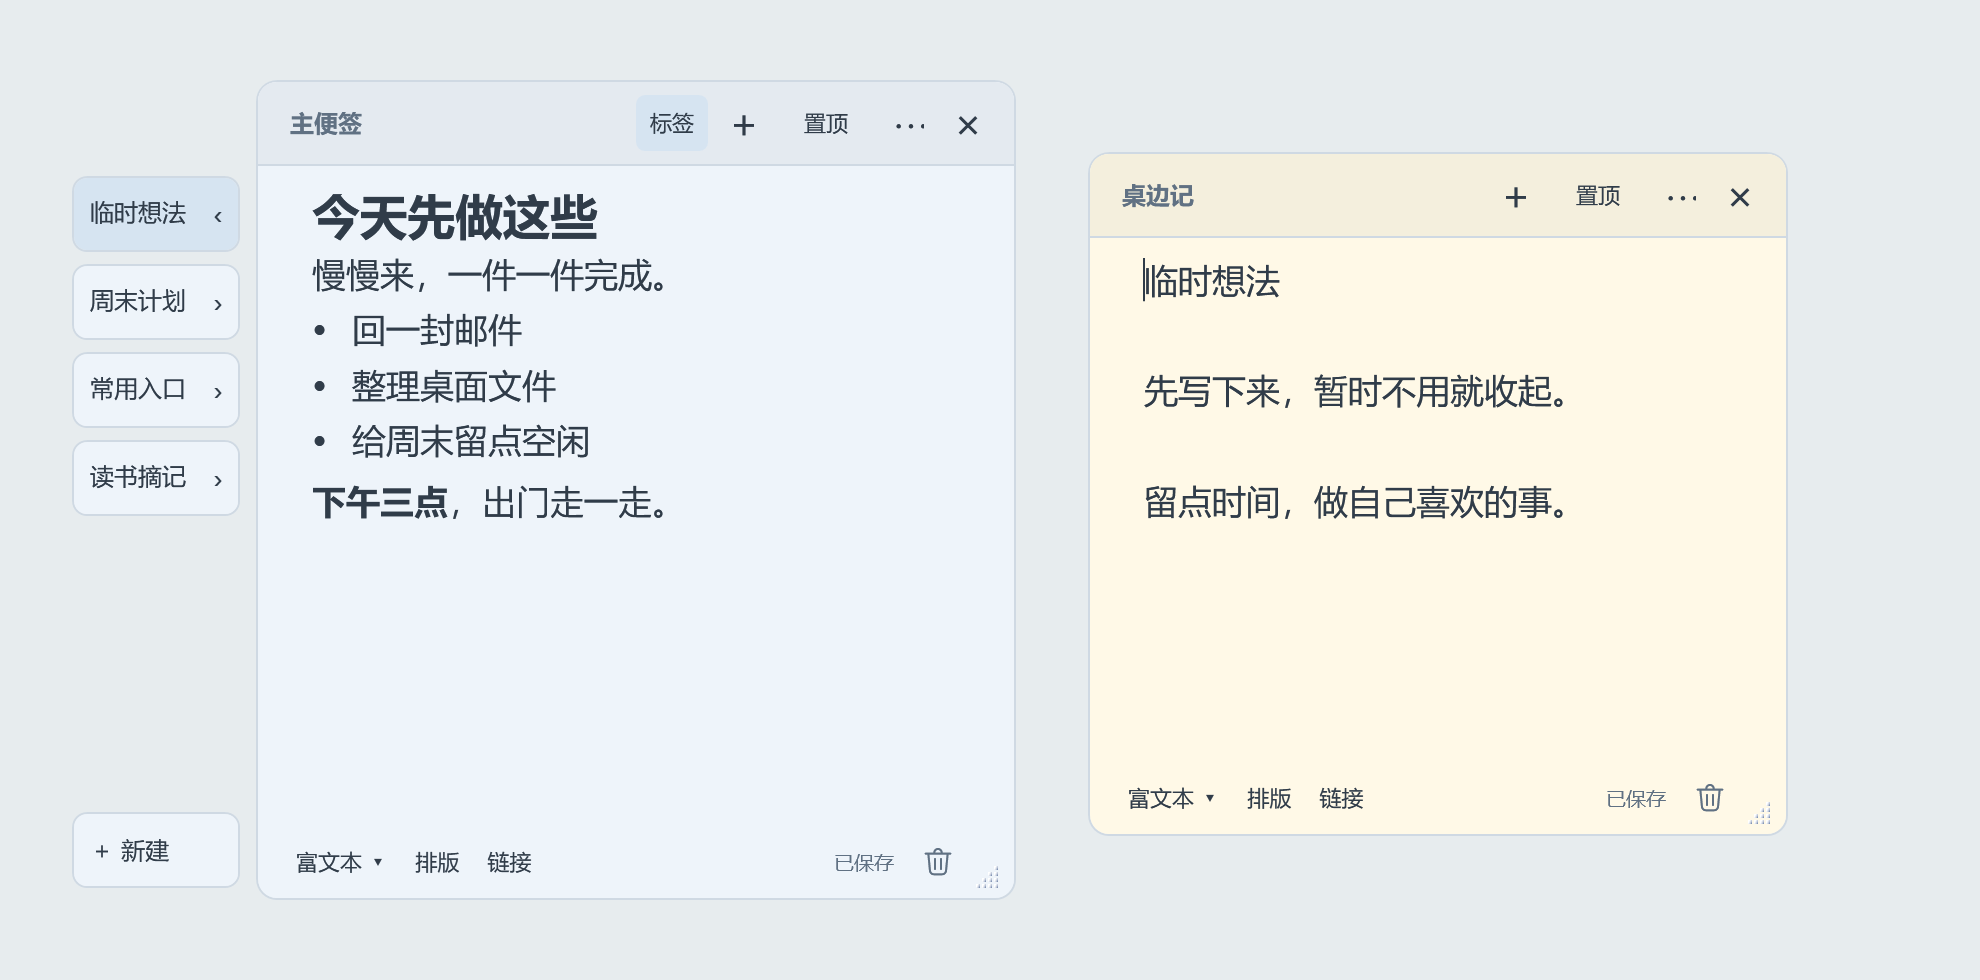
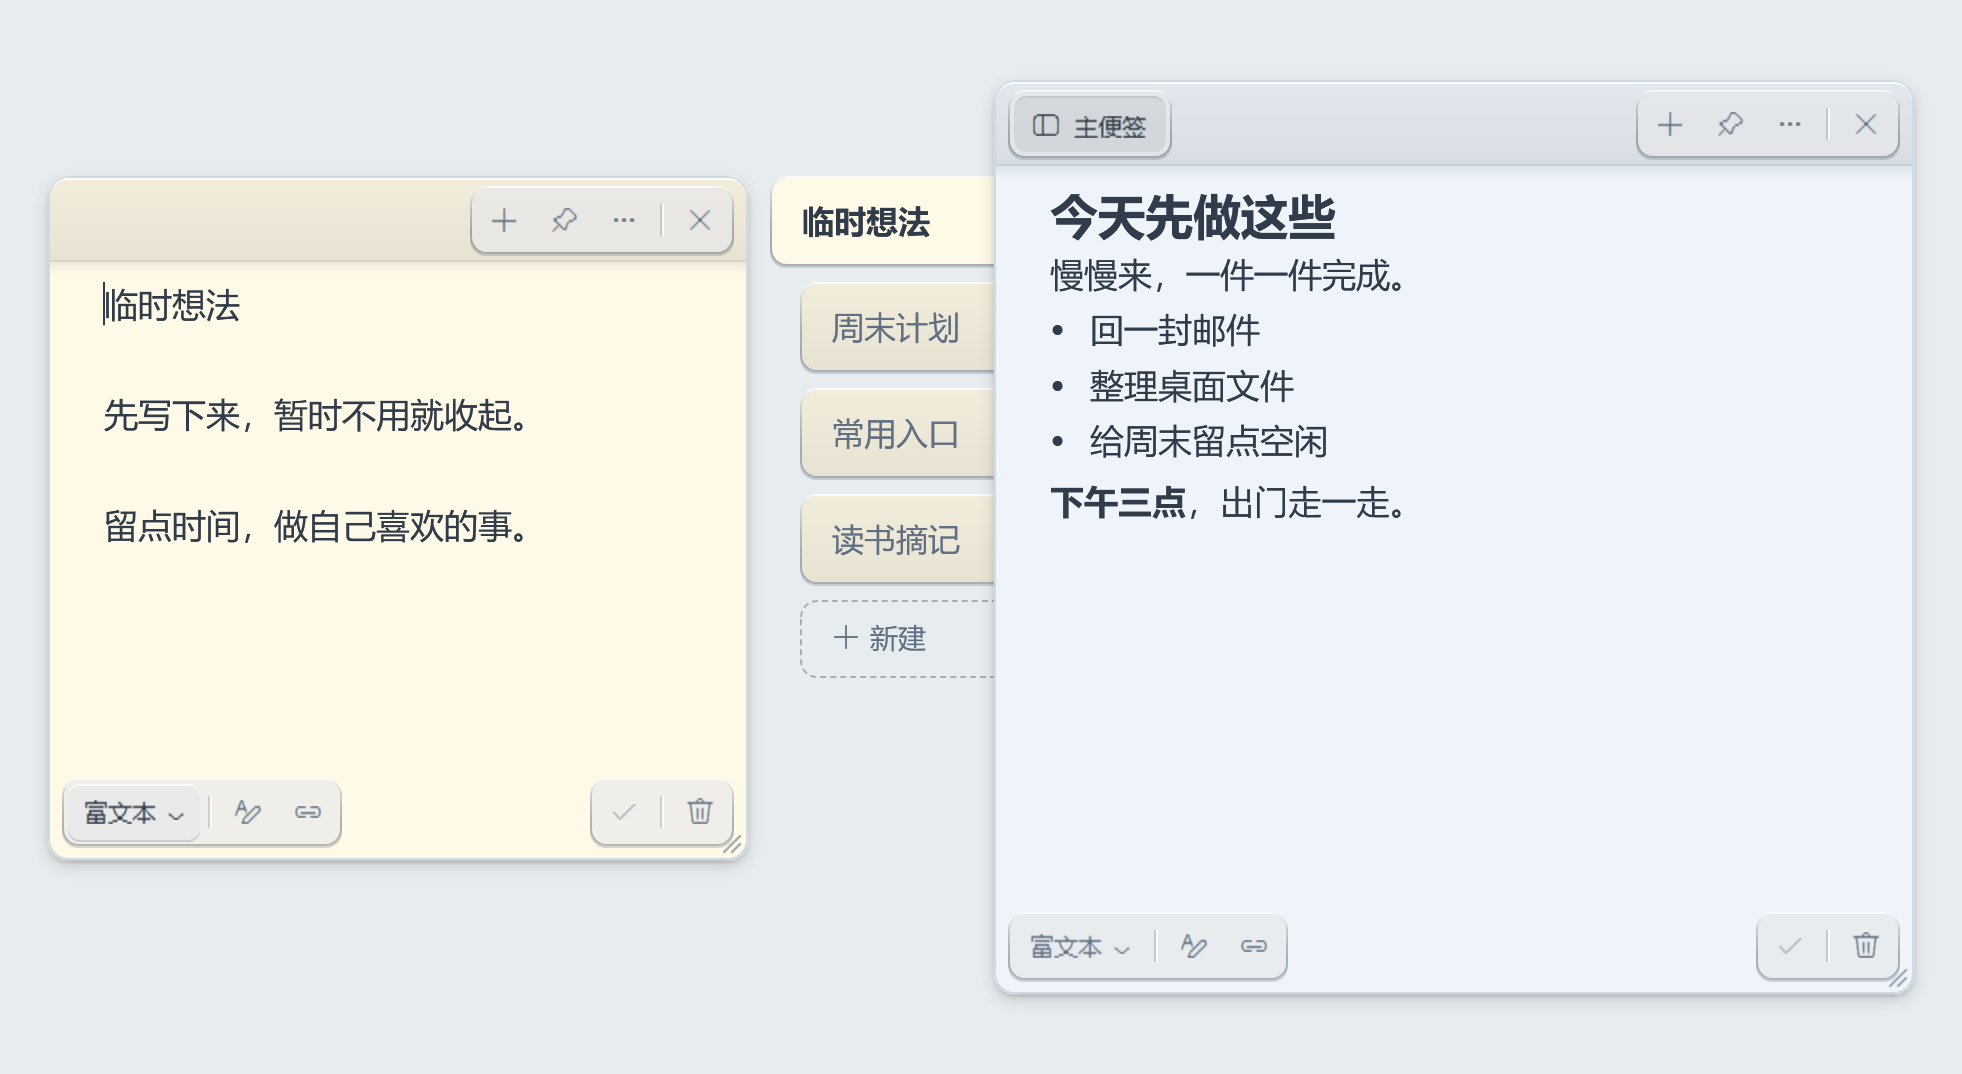
打磨 4：动画收尾——链接卡片淡入，README 配图重新生成，正文 ClearType 查清原因
- 链接卡片出现时淡入，和颜色面板一致；菜单原本就跟随系统菜单动画设置，便签淡入、子便签滑出、弹窗出现在前几块已完成
- 正文 ClearType：透明窗口里文字上层有裁剪就只能灰度，滚动区一定裁剪；去掉裁剪后代码块底色、表格线、引用竖线会画到卡片外的阴影边距里，所以不采用，正文保持灰度，原因和后续做法写进开发说明和打磨计划
- README 的三张配图按现在的界面重新生成
- 打磨计划补上第 4 块完成情况

diff --git a/src/Zhuobianji/Editing/NoteEditor.xaml b/src/Zhuobianji/Editing/NoteEditor.xaml
@@ -12,7 +12,7 @@
    IsToolBarVisible="False" VerticalScrollBarVisibility="Auto" Visibility="Collapsed"
    AutomationProperties.Name="Markdown 预览" />
   <TextBlock x:Name="Hint" Text="写点什么…" IsHitTestVisible="False" />
-  <Popup x:Name="LinkCard" Placement="Bottom" HorizontalOffset="-6" AllowsTransparency="True" StaysOpen="True" Focusable="False">
+  <Popup x:Name="LinkCard" Placement="Bottom" HorizontalOffset="-6" AllowsTransparency="True" StaysOpen="True" Focusable="False" PopupAnimation="Fade">
    <ContentControl Style="{DynamicResource PopupCard}" Padding="12,8,12,6" MinWidth="212" MaxWidth="352">
     <StackPanel>
      <TextBlock x:Name="LinkCardAddress" Style="{DynamicResource LinkCardAddress}" />

diff --git a/docs/打磨计划.md b/docs/打磨计划.md
@@ -41,7 +41,7 @@
 - 按下面做了：顶栏、⋯ 菜单、底栏、排版栏全部换成图标；普通便签不写标题，主便签显示「主便签」小标签；顶栏分隔线去掉；保存状态改成淡色小勾，失败显示红字；排版栏做成浅底托盘，分三组；文字颜色改成一排色块，图标下的色条显示选中文字的颜色；排版栏展开时淡入加上移。
 - 另外加了：编辑区、源码、预览的细滚动条；右下角缩放角改成两道淡色斜线；编辑区和链接的右键菜单也加了图标；窗口开了布局取整（UseLayoutRounding），边框更利落。
 - 阴影：窗口四周留 12 透明边距，卡片背后单独一层 DropShadowEffect，外层缓存成位图，打字不重算。保存的位置尺寸仍只算卡片，老数据打开后卡片位置不变。
-- 文字清晰度：顶栏、底栏、排版栏、菜单的小字已经是 ClearType（屏幕实拍测了彩边）。正文还是灰度：在编辑框、滚动区上加 ClearTypeHint、固定 TextHintingMode、布局取整都试过，无效，留到第 4 块再查。
+- 文字清晰度：顶栏、底栏、排版栏、菜单的小字已经是 ClearType（屏幕实拍测了彩边）。正文还是灰度：在编辑框、滚动区上加 ClearTypeHint、固定 TextHintingMode、布局取整都试过，无效，留到第 4 块再查（结论见第 4 块：保持灰度）。
 - 与计划不同：排版栏收起不做动画，直接收（收起时正文区要立刻变高，动画反而拖沓）；悬停和选中底用 Subtle / Selected，不用 Accent（见第 0 块）。
 - 暂时的副作用：子便签展开时和主便签之间的空隙从 10 变成 34（多了两边的阴影边距），第 3 块重做展开位置时一起改。
 - 体积 173.5 MB，没有变化。
@@ -168,12 +168,19 @@
 - 收纳：便签淡出，新标签在标签区淡入。
 - 取出：反过来。
 
-## 4. 动画整体过一遍
+## 4. 动画整体过一遍 ✅
 
 - 便签显示：淡入 120ms。隐藏保持立即生效，因为保存、找回和检查都依赖同步隐藏。
 - 链接卡片：`PopupAnimation="Fade"`。菜单跟随系统菜单动画设置。
 - 其余见各块：悬停过渡、排版栏、标签让位、子便签滑出、弹窗出现。
 - 透明窗口绘制比普通窗口重，大面积动画要实测流不流畅，卡就缩小范围或去掉。
+
+完成情况（2026-10-26）：
+- 便签显示淡入 120ms、子便签滑出、标签让位、弹窗出现在前几块已经做了；隐藏保持立即生效。
+- 链接卡片加了 `PopupAnimation="Fade"`，和颜色面板一样。菜单原本就跟随系统菜单动画设置（右键菜单由 WPF 按系统设置出现，二级菜单模板用 `MenuPopupAnimationKey`），没有改。
+- 正文 ClearType（第 1 块留下的）：查清了原因，没有采用，正文保持灰度。透明窗口里，文字上层只要有裁剪就只能灰度，而滚动区一定会裁剪。试过每次排版后用反射去掉滚动区的裁剪：正文变成 ClearType（实拍有彩边），滚出可视区的半行也能用顶栏、边距和底栏盖住；但代码块底色、表格线和引用竖线是整块画的，长代码块、表格、引用滚动时会画到卡片外的阴影边距里，盖不住；最大字号的标题压在下沿时也会露出一两像素（顶栏下半是半透明的，还得在顶栏下垫一层底色）。要彻底解决得把阴影挪到便签窗口外面（单独的阴影窗口），改动大，记在「以后再说」。试验补丁和截图在 `.local/打磨截图/4-动画`。
+- 大面积动画的流畅度没有逐帧实测。
+- preview 组重新生成了 README 的三张图；README 文字和现在的界面一致，没有改。
 
 ## 检查要跟着改
 
@@ -181,7 +188,7 @@
 - WindowChecks 的自启菜单用 `TrayMenu.StartupItem`（WinForms 菜单项），换托盘后要改。
 - RailChecks（按钮引用 19 处）、CollectionChecks（标签 ToggleButton、`CollectionTabButtons`）、SortingChecks（`OfType<ToggleButton>`、插入线），跟着标签区改。
 - 子便签位置改了以后，collection、rail 里涉及窗口坐标的检查要核对。
-- preview 组生成 README 用的三张图（`docs/images`），全部改完后重新生成并更新 README 文字。
+- preview 组生成 README 用的三张图（`docs/images`），全部改完后重新生成并更新 README 文字。（第 4 块已重新生成）
 - 节奏：每块中间只编译，块末统一跑相关组；全部做完跑 all。前台类失败先单独重跑。
 
 ## 交付节奏
@@ -194,6 +201,7 @@
 
 - 选中文字浮出工具条、顶栏悬停才出现（站长想换时再做）。
 - 待办清单（☐）等新功能。
+- 正文 ClearType：要先把阴影挪到单独的窗口，见第 4 块。
 - 彩色 emoji：WPF 只能画单色，要换编辑控件，风险大。
 - 体积压缩：`EnableCompressionInSingleFile` 会拖慢启动。
 - 默认分支改名 main、发新版 Release：站长另定。

diff --git a/docs/开发说明.md b/docs/开发说明.md
@@ -42,7 +42,8 @@
 
 - 颜色和间距只在 NoteTheme 里改。`ApplyTo` 把配色写成窗口资源键（Surface Header Text Muted Edge Accent Subtle Selected Danger Error），NoteStyles.xaml 和 NoteWindow.xaml 只用 `DynamicResource` 引用这些键，换主题时界面自动跟着变。Subtle、Selected 是正文色加透明度，用作按钮的悬停底和选中底。
 - 立体感只有一种做法：便签上能点的按钮都放在凸起的键托 `KeyTray` 上（顶栏、底栏左右各一个，排版栏一个），托里的按钮平时是平的，悬停浮起，按下和开启时凹进去；凹只表示按下或开启。图标按钮 `IconButton` / `IconToggle`（28×28，平时淡色、悬停变实），带文字的 `LabelButton` / `LabelToggle`，文字按钮 `ToolButton` / `ToolToggle`。弹窗里的按键单独凸起（`KeyButton`），确认用墨色实底的 `PrimaryButton`，危险操作用红底的 `DangerButton`。左侧标签用同一种凸起，尺寸由代码写成标签区资源。尺寸、圆角、字号的约定写在 NoteStyles.xaml 开头。
-- 动画时长用 `NoteTheme.Fast`（120ms，悬停、淡入）和 `NoteTheme.Standard`（180ms，展开、滑出），缓动用 `NoteTheme.Ease`；系统关闭窗口内动画时时长为 0。只动透明度和位移；资源里的画刷是冻结的，悬停变色靠叠一层底色改透明度。
+- 动画时长用 `NoteTheme.Fast`（120ms，悬停、淡入）和 `NoteTheme.Standard`（180ms，展开、滑出），缓动用 `NoteTheme.Ease`；系统关闭窗口内动画时时长为 0。只动透明度和位移；资源里的画刷是冻结的，悬停变色靠叠一层底色改透明度。颜色面板和链接卡片用 Popup 自带的淡入，菜单跟随系统菜单动画设置。
+- 文字清晰度：便签是透明窗口（AllowsTransparency），默认只能灰度抗锯齿。NoteCard 上设了 `RenderOptions.ClearTypeHint`，顶栏、底栏和排版栏用 `TextFormattingMode="Display"`，这些小字是 ClearType。正文是灰度：文字上层只要有裁剪就只能灰度，滚动区一定会裁剪。去掉滚动区裁剪能让正文变成 ClearType，但代码块底色、表格线、引用竖线是整块画的，滚动时会画到卡片外的阴影边距里，所以没有采用；要做得先把阴影挪出便签窗口。
 - 开关型按钮（置顶、源码 / 预览、标签开关、收纳标签）是 ToggleButton，开启时的底色由样式按 `IsChecked` 决定，代码只设置 `IsChecked`。
 - 弹窗（提示、确认、链接、设置）共用 `NoteDialog` 外壳：配色跟着所属便签，顶栏、键托和按键与便签相同，出现时淡入并略微放大；输入框、开关、滑块、勾选框和配色色块的样式也在 NoteStyles.xaml。设置窗口在便签旁边打开。WPF UI 只用它的图标，不用它的控件和主题。
 - 托盘是 H.NotifyIcon.Wpf，右键菜单是 WPF 菜单，样式和便签菜单相同，配色用默认外观。
